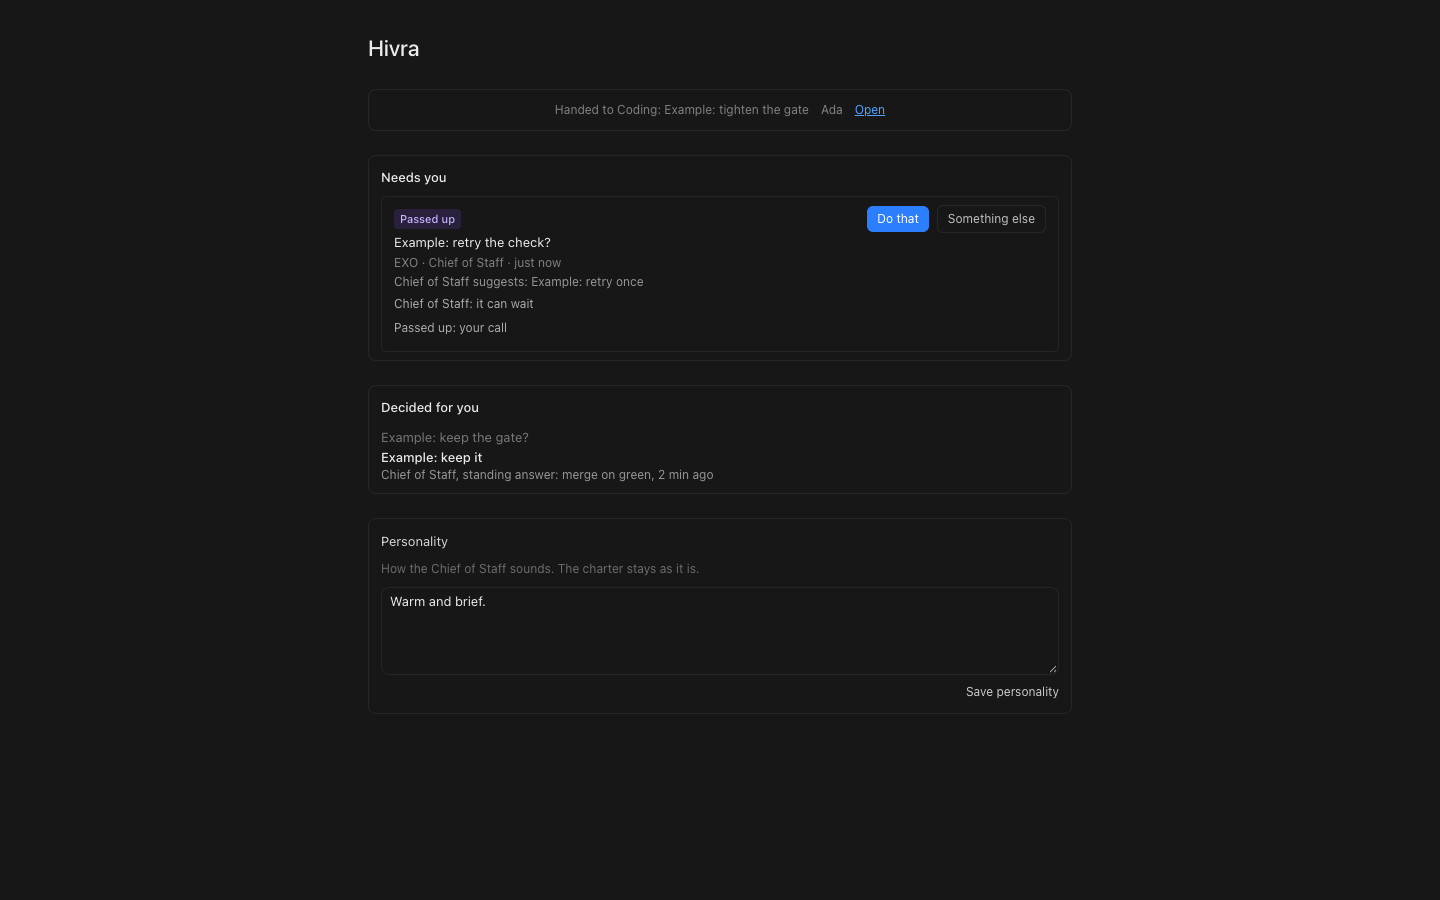
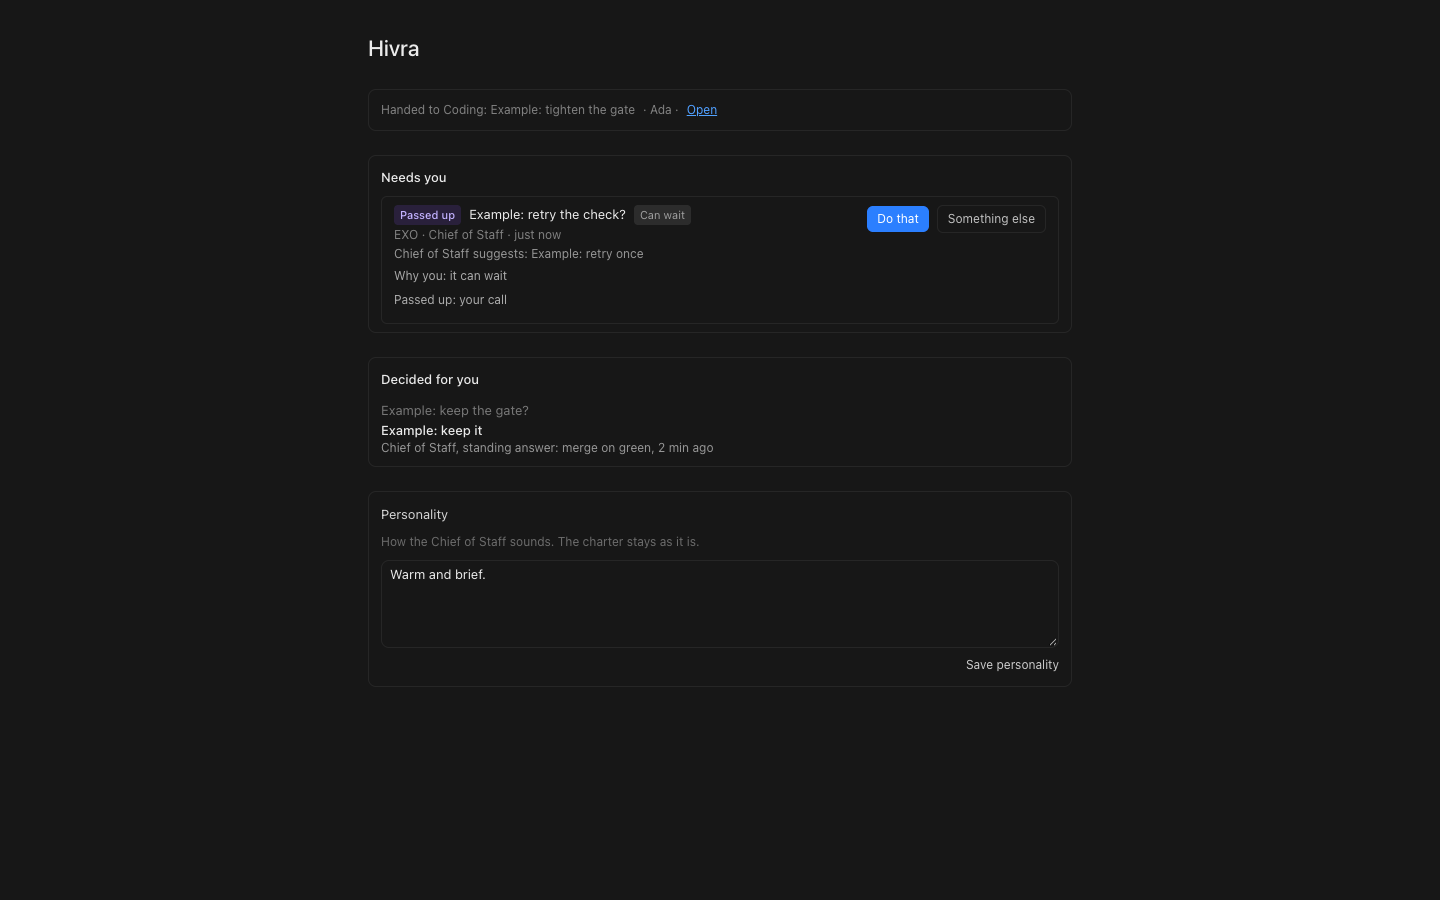
Show a pass-up as one row
The chip sits with the title, and Do that runs its action. Ada and Open stay beside the handoff line, not inside it.

diff --git a/src/features/crew/ui/FirstMateInbox.action.test.ts b/src/features/crew/ui/FirstMateInbox.action.test.ts
@@ -1,0 +1,61 @@
+// @vitest-environment happy-dom
+import { act, createElement } from "react";
+import { createRoot, type Root } from "react-dom/client";
+import { afterEach, beforeEach, describe, expect, it, vi } from "vitest";
+import type { FirstMateItem } from "../model/inbox";
+import { FirstMateInbox } from "./FirstMateInbox";
+
+const item = (apply: () => void): FirstMateItem => ({
+  id: "pass",
+  kind: "question",
+  title: "Example: retry the check?",
+  body: "it can wait",
+  statusWord: "Chief of Staff suggests: Example: retry once",
+  chip: "Passed up",
+  reasonLead: "Why you:",
+  marks: ["Can wait"],
+  actions: [
+    { label: "Do that", primary: true, onClick: apply },
+    { label: "Something else" },
+  ],
+  chatId: null,
+  workerIds: [],
+  options: [],
+  recommended: null,
+  project: "EXO",
+  key: null,
+  since: 0,
+  updatedAt: 1,
+});
+
+describe("a passed-up row's suggestion", () => {
+  let container: HTMLDivElement;
+  let root: Root;
+  beforeEach(() => {
+    vi.stubGlobal("IS_REACT_ACT_ENVIRONMENT", true);
+    container = document.createElement("div");
+    document.body.append(container);
+    root = createRoot(container);
+  });
+  afterEach(() => {
+    act(() => root.unmount());
+    container.remove();
+    vi.unstubAllGlobals();
+  });
+
+  it("applies the suggestion from Do that, and the chip sits with the title", () => {
+    const apply = vi.fn();
+    act(() => root.render(createElement(FirstMateInbox, { items: [item(apply)] })));
+    const buttons = [...container.querySelectorAll("button")];
+    buttons.find((button) => button.textContent === "Do that")?.click();
+    expect(apply).toHaveBeenCalledOnce();
+    buttons.find((button) => button.textContent === "Something else")?.click();
+    expect(apply).toHaveBeenCalledOnce();
+    const article = container.querySelector("article");
+    expect(article?.querySelector("h3")?.textContent).toBe("Example: retry the check?");
+    expect(article?.querySelector("p")?.textContent).toBe("Chief of Staff suggests: Example: retry once");
+    expect(container.querySelector("[data-reason-text]")?.textContent).toBe("it can wait");
+    expect(container.textContent).toContain("Can wait");
+    expect(container.textContent).toContain("Why you:");
+  });
+});

diff --git a/src/features/crew/ui/FirstMateInbox.tsx b/src/features/crew/ui/FirstMateInbox.tsx
@@ -42,12 +42,22 @@ export function FirstMateInbox({
         >
           <div className="flex items-start justify-between gap-3">
             <div className="min-w-0">
-          {item.chip ? (
-            <span className="mb-1 inline-flex rounded bg-violet-500/15 px-1.5 py-0.5 text-[11px] font-medium text-violet-300">
-              {item.chip}
-            </span>
-          ) : null}
-          <h3 className="text-[13px] text-content">{item.title}</h3>
+          <div className="flex min-w-0 flex-wrap items-baseline gap-2">
+            {item.chip ? (
+              <span className="inline-flex shrink-0 rounded bg-violet-500/15 px-1.5 py-0.5 text-[11px] font-medium text-violet-300">
+                {item.chip}
+              </span>
+            ) : null}
+            <h3 className="text-[13px] text-content">{item.title}</h3>
+            {item.marks?.map((mark) => (
+              <span
+                key={mark}
+                className="inline-flex shrink-0 rounded bg-content/10 px-1.5 py-0.5 text-[11px] text-content/60"
+              >
+                {mark}
+              </span>
+            ))}
+          </div>
           {item.sourceLine ? <div className="text-[12px] leading-5 text-content/50">{item.sourceLine}</div> : null}
           {typeof now === "number" && waitingPhrase(item.since, now) ? (
             <p data-waiting className="text-[12px] text-content/60">
@@ -98,6 +108,7 @@ export function FirstMateInbox({
                   <button
                     key={action.label}
                     type="button"
+                    onClick={() => action.onClick?.()}
                     className={
                       action.primary
                         ? "rounded-md bg-blue-500 px-2.5 py-1 text-[12px] text-white"

diff --git a/tests/browser/wp215-captain.tsx b/tests/browser/wp215-captain.tsx
@@ -51,10 +51,11 @@ const passedUp: FirstMateItem = {
   statusWord: suggestion,
   chip: "Passed up",
   sourceLine: "EXO · Chief of Staff · just now",
-  reasonLead: "Chief of Staff:",
+  reasonLead: "Why you:",
+  marks: ["Can wait"],
   note: "Passed up: your call",
   actions: [
-    { label: "Do that", primary: true },
+    { label: "Do that", primary: true, onClick: () => undefined },
     { label: "Something else" },
   ],
   chatId: null,
@@ -79,11 +80,11 @@ function Page() {
     <main className="min-h-screen bg-background-base text-content">
       <div className="mx-auto flex max-w-3xl flex-col gap-6 px-8 py-8">
         <h1 className="text-[22px] font-medium text-content">Hivra</h1>
-        <section className="flex items-center justify-center gap-3 rounded-lg border border-stroke px-3 py-3">
+        <section className="flex items-center gap-2 rounded-lg border border-stroke px-3 py-3">
           <div data-testid="handoff">
             <RoomMessage chatId="room" message={handoffMessage} messages={[handoffMessage]} nameOf={() => "App"} />
           </div>
-          <span className="text-xs text-content/50">Ada</span>
+          <span className="text-xs text-content/50">· Ada ·</span>
           <a href="#task-1" className="text-xs text-blue-400 underline">
             Open
           </a>

diff --git a/src/features/crew/model/inbox.ts b/src/features/crew/model/inbox.ts
@@ -46,7 +46,9 @@ export type FirstMateItem = {
   /** Words in front of the body, so the reason can name who said it. */
   reasonLead?: string;
   /** Actions on the right. The first primary one is the suggestion. */
-  actions?: readonly { label: string; primary?: boolean }[];
+  actions?: readonly { label: string; primary?: boolean; onClick?: () => void }[];
+  /** Small chips beside the title, such as "Can wait". */
+  marks?: readonly string[];
   project: string;
   key: string | null;
   /** The decision version this card was drawn from. Absent on a row that is not a decision. */
